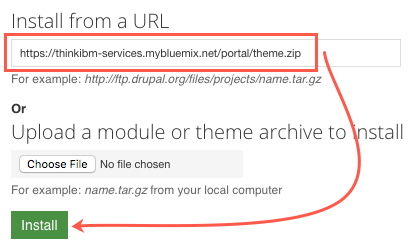
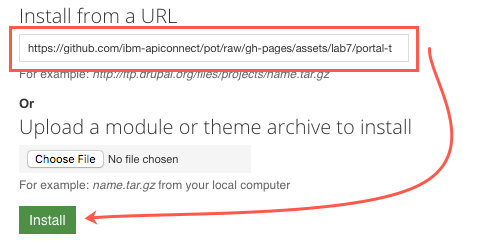
updating links to new lab asset locations

diff --git a/labs/lab1.md b/labs/lab1.md
@@ -51,7 +51,9 @@ For this lab, you will be starting with your local image and installing node.js 
     cd notes
     ```
 
-1.  List the directory:
+1.  List the directory: <a class="anchorjs-link " href="#loopback-files" aria-label="Anchor link for: loopback files" data-anchorjs-icon="" style="font-family: anchorjs-icons; font-style: normal; font-variant-ligatures: normal; font-variant-caps: normal; font-weight: normal; line-height: 1; padding-left: 0.375em;"></a>
+
+    <div id="loopback-files"></div>
 
     ```bash
     $ ls
@@ -60,27 +62,27 @@ For this lab, you will be starting with your local image and installing node.js 
 
     If you're familiar with LoopBack or Node.js applications, some of the directories may be familiar to you. If not, here is a description of some of what is created.
 
-|Directory or file|Description|
-|-----------------|-----------|
-|client|If the application has a front end, this is where the HTML, CSS, JavaScript, etc would be located. For our sample application there is only a stubbed out README.md.|
-|common|Files common to both the server and the client application.|
-|common/models|This sub-directory contains all the model JSON and JavaScript files. By model we're referring to a data model.|
-|common/models/note.js|Custom script for the note data model. This file contains the implementation of the methods defined by the model definition file.|
-|common/models/note.json|The note model definition file. This file contains the definition of the properties and methods for this model.|
-|definitions|This directory contains the definitions for the APIs and the product contained in this application.|
-|definitions/notes-product.yaml|YAML file for the the notes product. Which includes default plans for testing locally.|
-|definitions/notes.yaml|Swagger definition file for the notes API. Includes information about the REST paths and operations, schemas for data models, security requirements, etc.|
-|node_modules|Directory containing all the required node modules for the default application.|
-|package.json|Standard Node.js package specification. Most importantly it contains the application package dependencies.|
-|server|This directory contains the Node.js application and configuration files. We'll not look at them all in this tutorial, but here are a few.|
-|server/server.js|The main appication script for this application. **Note:** this is defined in the package.json file.|
-|server/config.json|This file contains the global application settings, such as REST API root, hostname and port.|
-|server/model-config.json|This file binds models to data sources and specifies whether a model is exposed over REST, among other things.|
-|server/datasources.json|This file is the data source configuration file.|
-
-{% include note.html content="
-    `*.md` files, such as that found in the client directory, are markdown files used for internal documentation.
-" %}
+    |Directory or file|Description|
+    |-----------------|-----------|
+    |client|If the application has a front end, this is where the HTML, CSS, JavaScript, etc would be located. For our sample application there is only a stubbed out README.md.|
+    |common|Files common to both the server and the client application.|
+    |common/models|This sub-directory contains all the model JSON and JavaScript files. By model we're referring to a data model.|
+    |common/models/note.js|Custom script for the note data model. This file contains the implementation of the methods defined by the model definition file.|
+    |common/models/note.json|The note model definition file. This file contains the definition of the properties and methods for this model.|
+    |definitions|This directory contains the definitions for the APIs and the product contained in this application.|
+    |definitions/notes-product.yaml|YAML file for the the notes product. Which includes default plans for testing locally.|
+    |definitions/notes.yaml|Swagger definition file for the notes API. Includes information about the REST paths and operations, schemas for data models, security requirements, etc.|
+    |node_modules|Directory containing all the required node modules for the default application.|
+    |package.json|Standard Node.js package specification. Most importantly it contains the application package dependencies.|
+    |server|This directory contains the Node.js application and configuration files. We'll not look at them all in this tutorial, but here are a few.|
+    |server/server.js|The main appication script for this application. **Note:** this is defined in the package.json file.|
+    |server/config.json|This file contains the global application settings, such as REST API root, hostname and port.|
+    |server/model-config.json|This file binds models to data sources and specifies whether a model is exposed over REST, among other things.|
+    |server/datasources.json|This file is the data source configuration file.|
+    
+    {% include note.html content="
+        `*.md` files, such as that found in the client directory, are markdown files used for internal documentation.
+    " %}
 
 ### 1.2	- Launching the `notes` Application
 

diff --git a/labs/lab3.md b/labs/lab3.md
@@ -32,7 +32,7 @@ Before publishing the API for our application, the configuration file that was g
 
     ![](https://github.com/ibm-apiconnect/pot/raw/gh-pages/images/lab3/list-folder.png)
 
-    {% include note.html content="LoopBack applications use a series of configuration files which drive the application runtime. For more information about these files, review the table in Lab 1.
+    {% include note.html content="LoopBack applications use a series of configuration files which drive the application runtime. For more information about these files, review the table in [Lab 1](lab1.html#loopback-files).
     " %}
 
 1.  From the folder tree menu, expand the `server` folder and click on the `config.json` file to view the source.
@@ -61,7 +61,7 @@ For more information on Remote Hooks please see:
 
 1.  Open up a new tab on your browser, and open the following file via github:
 
-    [https://github.com/ibm-apiconnect/pot-onprem-core/blob/master/lab-files/lab3/item.js](https://github.com/ibm-apiconnect/pot-onprem-core/blob/master/lab-files/lab3/item.js)
+    [https://raw.githubusercontent.com/ibm-apiconnect/pot/gh-pages/assets/lab3/item.js](https://raw.githubusercontent.com/ibm-apiconnect/pot/gh-pages/assets/lab3/item.js)
 	
 1.  You have two choices in how to implement this change. You can either copy and paste in the code from github by simply copying the contents from the github to the clipboard and pasting it to your local `item.js` file.
 

diff --git a/labs/lab7.md b/labs/lab7.md
@@ -61,7 +61,7 @@ Now that we have explained the contents of a custom theme file, it is time to lo
 
 1.  In the `Install from a URL` field, enter the following URL then click the `Install` button:
 
-    [https://thinkibm-services.mybluemix.net/portal/theme.zip](https://thinkibm-services.mybluemix.net/portal/theme.zip)
+    [https://github.com/ibm-apiconnect/pot/raw/gh-pages/assets/lab7/portal-theme.zip](https://github.com/ibm-apiconnect/pot/raw/gh-pages/assets/lab7/portal-theme.zip)
 
     ![](https://github.com/ibm-apiconnect/pot/raw/gh-pages/images/lab7/install-theme.png)
     
